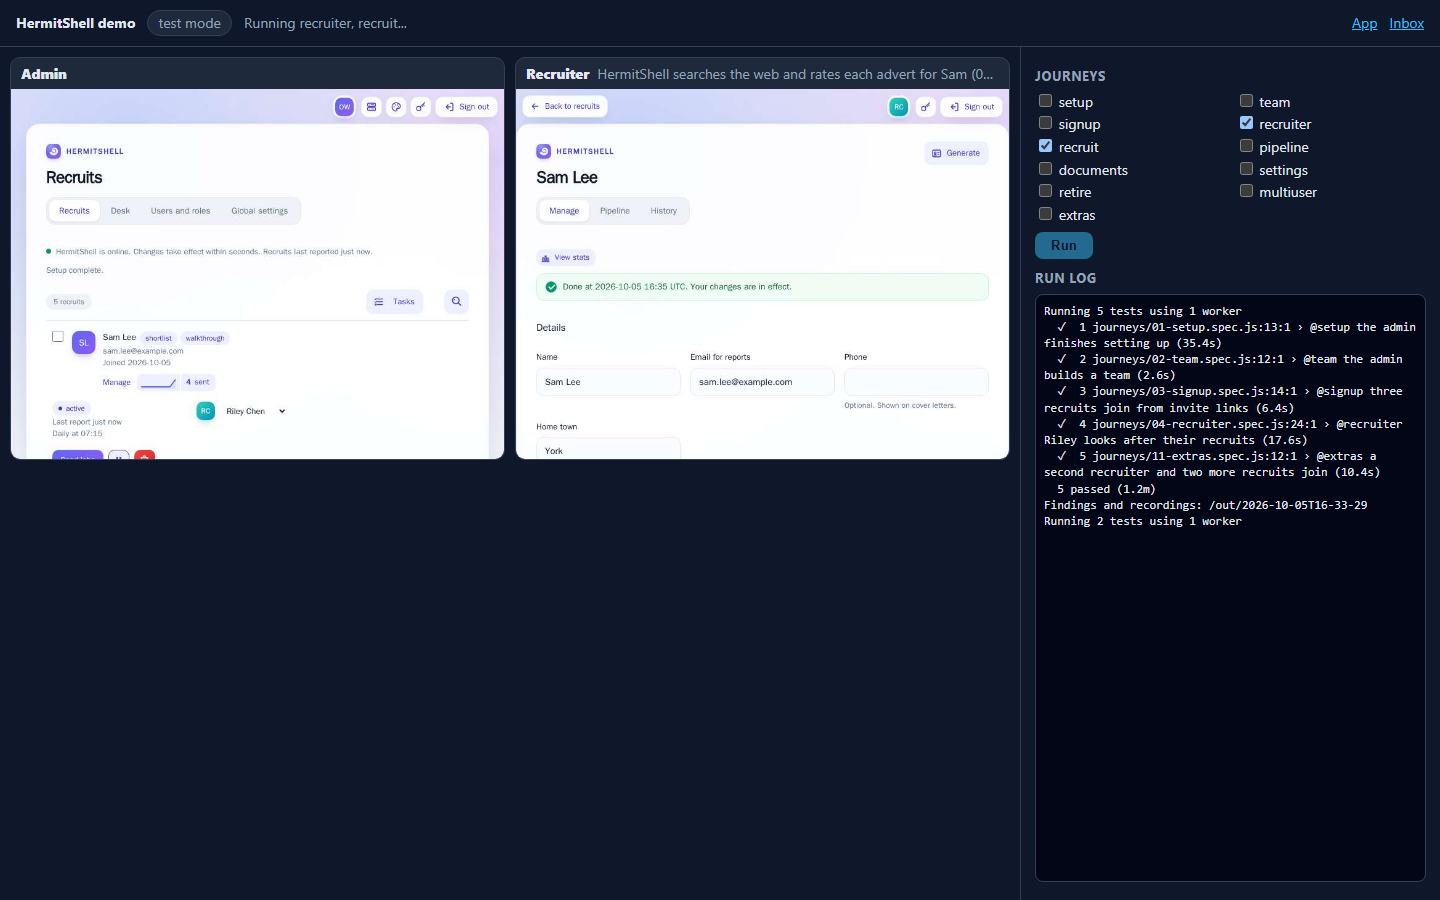
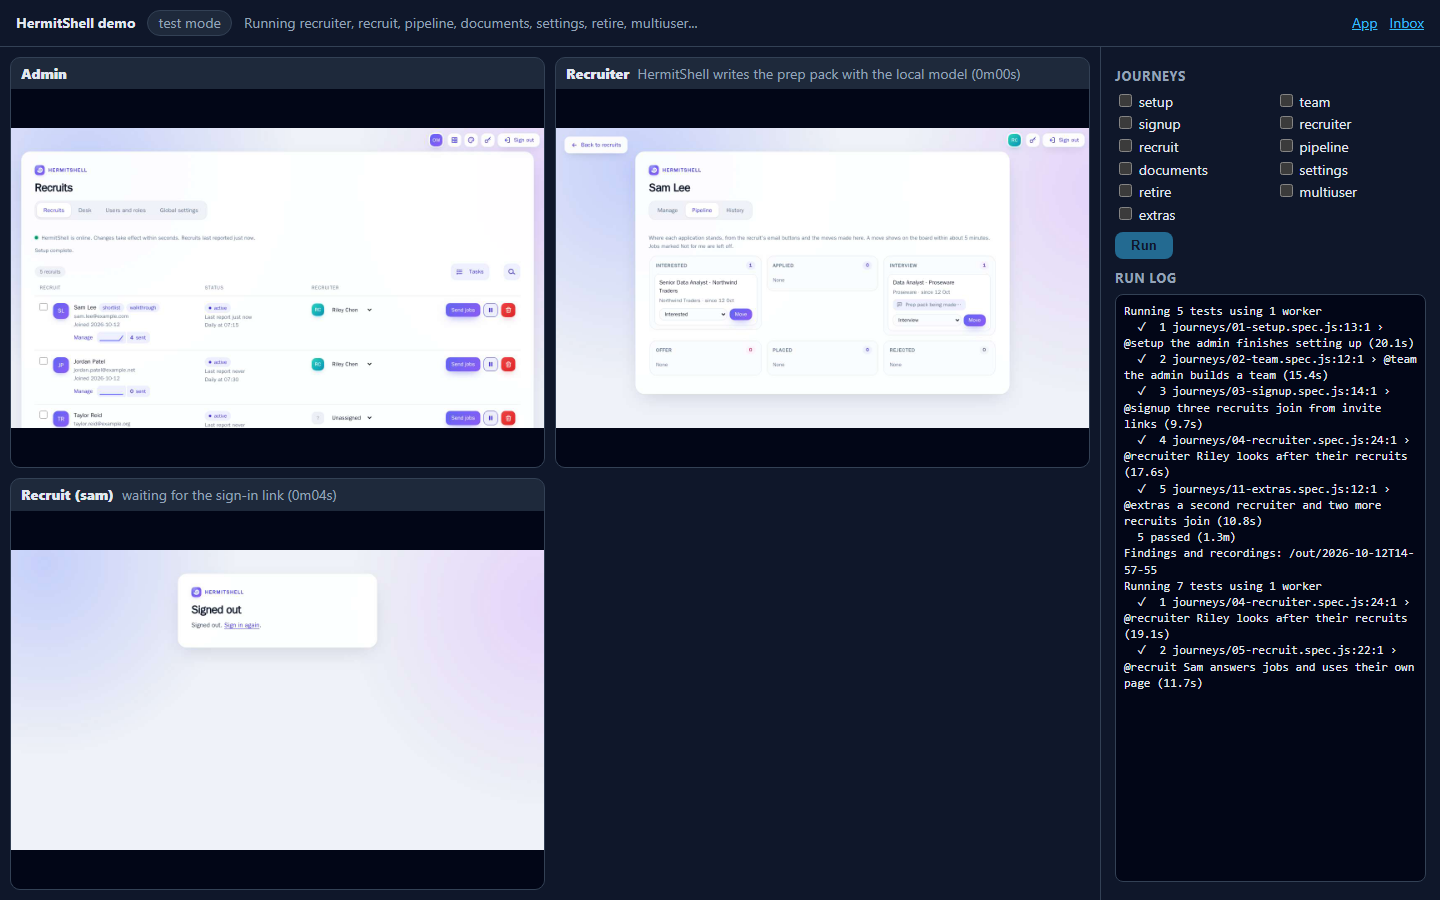
Give headless walkthrough windows a laptop-sized page
Headless Chromium defaults to 800 x 600, which showed up in the demo
viewer as small windows with black bands. Pages are now 1280 x 720.
Docs, changelog and the viewer screenshots are updated to match.

diff --git a/explore/lib/actors.js b/explore/lib/actors.js
@@ -24,7 +24,8 @@ export async function actor(role, { key = role, size = [960, 540] } = {}) {
   const session = join(SESSIONS_DIR, `${key}.json`);
   const out = process.env.EXPLORE_OUT;
   const context = await browser.newContext({
-    baseURL: TARGET, ignoreHTTPSErrors: true, viewport: null,
+    // Headless windows would default to 800 x 600; a laptop-shaped page is what people really see.
+    baseURL: TARGET, ignoreHTTPSErrors: true, viewport: headless ? { width: 1280, height: 720 } : null,
     ...(existsSync(session) ? { storageState: session } : {}),
     ...(out && process.env.EXPLORE_FAST !== "1" ? { recordVideo: { dir: join(out, "video", key) } } : {}),
   });

diff --git a/docs/demo-image.md b/docs/demo-image.md
@@ -65,11 +65,13 @@ afterwards. The folder must be writable by uid 10000.
 ## The viewer
 
 <http://localhost:8080> shows every browser window the walkthrough opens, live (the Chrome DevTools
-screencast), each with the caption of what that person is doing. In `test` and `autorun` modes a side panel
+screencast), each with the caption of what that person is doing. The windows are laptop-shaped (1280 x 720)
+and laid out in whichever grid shows them biggest on your screen; each updates a few times a second, so the page
+never falls behind or needs a refresh, and opening it mid-run shows every window at once. In `test` and `autorun` modes a side panel
 adds the journeys, the run log and links to the HTML report and `findings.md`. The journeys are the same as
 the [exploratory walkthrough's](exploratory-testing.md#the-journeys).
 
-<img src="images/demo/viewer-running.png" alt="The viewer streaming the admin's and recruiter's windows, with the test panel and run log" width="720">
+<img src="images/demo/viewer-running.png" alt="The viewer streaming the admin's, recruiter's and a recruit's windows in a grid, with the test panel and run log" width="720">
 
 In `test` mode, pick journeys and press **Run**; with none picked it runs every journey except setup, team,
 signup and extras. Those made the demo people when the container started, so they only run again in a fresh
@@ -129,7 +131,7 @@ between runs, or leave it out for a fresh start each time.
 packages, Mailpit and Chromium, all pinned. The [Demo image workflow](../.github/workflows/demo-image.yml)
 runs when the demo, the walkthrough or HermitShell's code changes:
 
-1. the replay and viewer tests;
+1. the replay, walkthrough-helper and viewer tests (`node --test explore/replay/test explore/lib/test demo/viewer/test`);
 2. a native build on amd64 and on arm64 runners;
 3. a smoke test of each with **no network at all**: the container must start, seed every demo person and
    their jobs, and answer over https;

diff --git a/CHANGELOG.md b/CHANGELOG.md
@@ -14,7 +14,13 @@ using [Semantic Versioning](https://semver.org/).
 - **The demo viewer fills the screen.** Its windows are laid out in whichever grid shows them biggest for
   the screen and the number of windows open, instead of a strip along the top. It also stays live: only each
   window's newest frame is sent, up to five times a second, so the page no longer falls minutes behind and
-  needs a refresh, and a page opened mid-run shows every window at once.
+  needs a refresh, and a page opened mid-run shows every window at once. Headless walkthrough windows (as in
+  the demo image) are laptop-sized, 1280 x 720, instead of Chromium's 800 x 600, so they fill the grid.
+- **Unit tests for the walkthrough's helpers** (`explore/lib/test`, run by the Demo image workflow): email
+  link text, the `.env.explore` and state files, the findings file and masking. Replay tests check that schema
+  property names can't reach the object prototype and that misses are counted per task. Security tests check
+  that every TLS connection in the stack's probe needs TLS 1.2 or later, and that dependency updates stay
+  manual (no Dependabot configuration).
 - **The demo image, `hermitshell-demo`.** HermitShell in one container with made-up people, twelve
   fictional adverts and recorded AI answers: no keys, no GPU and no internet. Modes: `app` (use it by
   hand), `demo` (a showcase of every feature, live in the viewer on port 8080), `test` (pick journeys, run

diff --git a/docs/exploratory-testing.md b/docs/exploratory-testing.md
@@ -65,7 +65,7 @@ is `EXPLORE_ADMIN_PASSWORD` in the same file.
 | `--only signup,recruiter` | Just these journeys, in their usual order |
 | `--from <checkpoint>` | Restore a checkpoint first |
 | `--slow 300` / `--fast` | Pause (ms) before each action, highlighting it; `--fast` turns pauses, video and traces off |
-| `--headless` | No windows |
+| `--headless` | No windows; each page is laptop-sized (1280 x 720) |
 | `--list` | List the journeys without running them |
 | `--target URL` / `--inbox URL` | Walk through another HermitShell, such as the [demo image](#walking-through-the-demo-image) |
 
